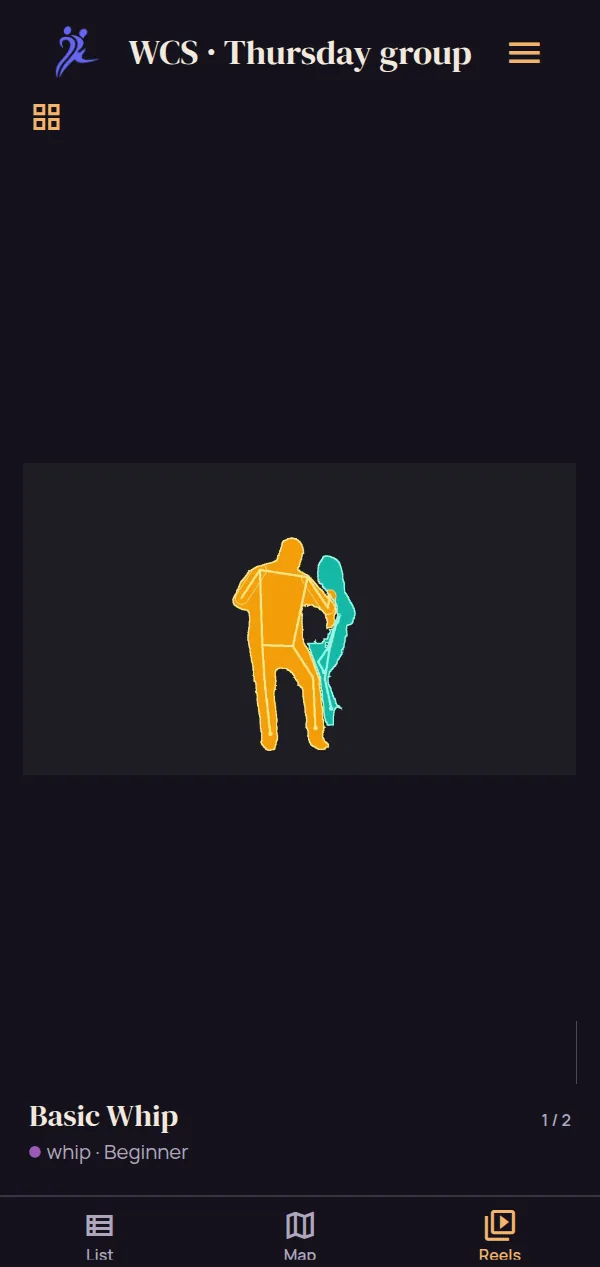
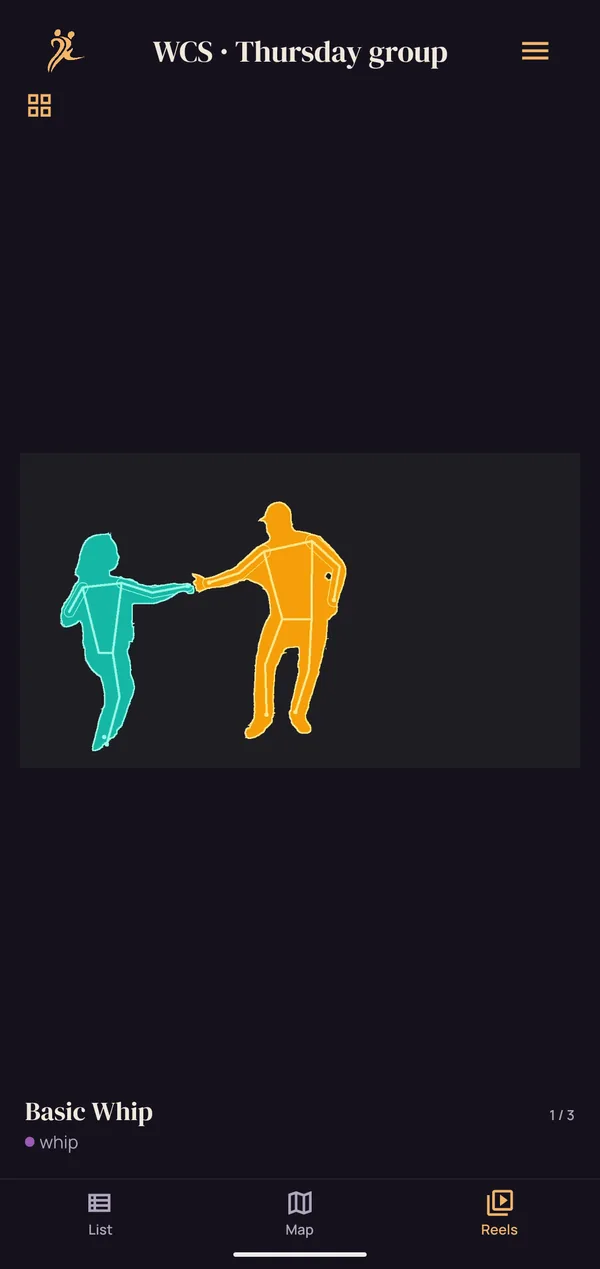
Website: retake the Reels and video-tool shots on the device
The video-tool screenshots still showed the old indigo look and came in a
single light take; the Reels shots came from the web build with one clip.
All of them are now device screenshots from the dev build, in After Hours
and Clipboard, light and dark, using a class video transcribed in full and
anonymized from 2:18 to 2:38 (kept alongside the original).

- video-trim, video-tap, video-jobs, video-review: four takes each, shown
  with the same for-ah / for-cb pictures as the other shots
- video-transcript: new, the transcript sheet, as a fourth step
- reels, reels-overview: a list with several videos per pattern
- The original footage is under a strong Gaussian blur in every frame
  (its dancers haven't consented); the tap markers are restored on top,
  and the silhouettes are left as they are
- README: how the device shots are taken; the video-shot gap is closed

diff --git a/website/index.html b/website/index.html
@@ -386,21 +386,21 @@
               <div>
                 <picture class="for-ah">
                 <source srcset="img/shots/reels-ah-dark.webp" media="(prefers-color-scheme: dark)" />
-                <img src="img/shots/reels-ah.webp" width="600" height="1267" loading="lazy" alt="A reel of the basic whip, the first of its two videos: an anonymized clip in which the two dancers are coloured silhouettes" />
+                <img src="img/shots/reels-ah.webp" width="600" height="1269" loading="lazy" alt="A reel of the basic whip, the first of its three videos: an anonymized clip in which the two dancers are coloured silhouettes" />
               </picture>
               <picture class="for-cb">
                 <source srcset="img/shots/reels-cb-dark.webp" media="(prefers-color-scheme: dark)" />
-                <img src="img/shots/reels-cb.webp" width="600" height="1267" loading="lazy" alt="A reel of the basic whip, the first of its two videos: an anonymized clip in which the two dancers are coloured silhouettes" />
+                <img src="img/shots/reels-cb.webp" width="600" height="1269" loading="lazy" alt="A reel of the basic whip, the first of its three videos: an anonymized clip in which the two dancers are coloured silhouettes" />
               </picture>
               </div>
               <figure class="shot-crop">
                 <picture class="for-ah">
                 <source srcset="img/shots/reels-overview-ah-dark.webp" media="(prefers-color-scheme: dark)" />
-                <img src="img/shots/reels-overview-ah.webp" width="600" height="620" loading="lazy" alt="The Reels overview for this list: a still of the basic whip, marked as having two videos" />
+                <img src="img/shots/reels-overview-ah.webp" width="600" height="981" loading="lazy" alt="The Reels overview for this list: stills of the basic whip, marked as having three videos, and of the left side pass" />
               </picture>
               <picture class="for-cb">
                 <source srcset="img/shots/reels-overview-cb-dark.webp" media="(prefers-color-scheme: dark)" />
-                <img src="img/shots/reels-overview-cb.webp" width="600" height="620" loading="lazy" alt="The Reels overview for this list: a still of the basic whip, marked as having two videos" />
+                <img src="img/shots/reels-overview-cb.webp" width="600" height="978" loading="lazy" alt="The Reels overview for this list: stills of the basic whip, marked as having three videos, and of the left side pass" />
               </picture>
                 <figcaption>The overview: this list or all lists, a still for each pattern.</figcaption>
               </figure>
@@ -443,27 +443,60 @@
               </p>
             </div>
             <div class="feature-art shot">
-              <img
-                src="img/shots/video-review.webp"
-                width="600"
-                height="1263"
-                loading="lazy"
-                alt="Checking an anonymized clip of a basic whip: the two dancers are coloured silhouettes, and the sheet offers to replace the original, keep both, or discard the new video"
-              />
+              <picture class="for-ah">
+                <source srcset="img/shots/video-review-ah-dark.webp" media="(prefers-color-scheme: dark)" />
+                <img src="img/shots/video-review-ah.webp" width="600" height="1269" loading="lazy" alt="Checking an anonymized clip of a basic whip: the two dancers are coloured silhouettes, and the sheet offers to replace the original, keep both, or discard the new video" />
+              </picture>
+              <picture class="for-cb">
+                <source srcset="img/shots/video-review-cb-dark.webp" media="(prefers-color-scheme: dark)" />
+                <img src="img/shots/video-review-cb.webp" width="600" height="1269" loading="lazy" alt="Checking an anonymized clip of a basic whip: the two dancers are coloured silhouettes, and the sheet offers to replace the original, keep both, or discard the new video" />
+              </picture>
             </div>
           </div>
           <div class="video-steps">
             <figure class="shot-crop">
-              <img src="img/shots/video-trim.webp" width="600" height="840" loading="lazy" alt="The Edit video sheet: a 19-second part of a long class video is selected, with Shorten and Anonymize below and an option to transcribe the full video first" />
+              <picture class="for-ah">
+                <source srcset="img/shots/video-trim-ah-dark.webp" media="(prefers-color-scheme: dark)" />
+                <img src="img/shots/video-trim-ah.webp" width="600" height="859" loading="lazy" alt="The Edit video sheet: the 20 seconds from 2:18 to 2:38 of a long class video are selected, with Shorten and Anonymize below and the option to transcribe the full video first" />
+              </picture>
+              <picture class="for-cb">
+                <source srcset="img/shots/video-trim-cb-dark.webp" media="(prefers-color-scheme: dark)" />
+                <img src="img/shots/video-trim-cb.webp" width="600" height="854" loading="lazy" alt="The Edit video sheet: the 20 seconds from 2:18 to 2:38 of a long class video are selected, with Shorten and Anonymize below and the option to transcribe the full video first" />
+              </picture>
               <figcaption>Pick the part that shows the figure, up to 30 seconds.</figcaption>
             </figure>
             <figure class="shot-crop">
-              <img src="img/shots/video-tap.webp" width="600" height="789" loading="lazy" alt="Anonymizing a clip: the two dancers are marked 1 and 2 on a frame of the video" />
+              <picture class="for-ah">
+                <source srcset="img/shots/video-tap-ah-dark.webp" media="(prefers-color-scheme: dark)" />
+                <img src="img/shots/video-tap-ah.webp" width="600" height="797" loading="lazy" alt="Anonymizing a clip: the two dancers are marked 1 and 2 on a frame of the video" />
+              </picture>
+              <picture class="for-cb">
+                <source srcset="img/shots/video-tap-cb-dark.webp" media="(prefers-color-scheme: dark)" />
+                <img src="img/shots/video-tap-cb.webp" width="600" height="792" loading="lazy" alt="Anonymizing a clip: the two dancers are marked 1 and 2 on a frame of the video" />
+              </picture>
               <figcaption>Tap the dancers, and the phone does the rest.</figcaption>
             </figure>
             <figure class="shot-crop">
-              <img src="img/shots/video-jobs.webp" width="600" height="886" loading="lazy" alt="The pattern list with a banner: the basic whip is being transcribed, and its anonymizing waits its turn" />
+              <picture class="for-ah">
+                <source srcset="img/shots/video-jobs-ah-dark.webp" media="(prefers-color-scheme: dark)" />
+                <img src="img/shots/video-jobs-ah.webp" width="600" height="950" loading="lazy" alt="The pattern list with a banner: the basic whip's transcript is ready, and its anonymizing is under way" />
+              </picture>
+              <picture class="for-cb">
+                <source srcset="img/shots/video-jobs-cb-dark.webp" media="(prefers-color-scheme: dark)" />
+                <img src="img/shots/video-jobs-cb.webp" width="600" height="878" loading="lazy" alt="The pattern list with a banner: the basic whip's transcript is ready, and its anonymizing is under way" />
+              </picture>
               <figcaption>The work runs in the background, and you get a notification when it's done.</figcaption>
+            </figure>
+            <figure class="shot-crop">
+              <picture class="for-ah">
+                <source srcset="img/shots/video-transcript-ah-dark.webp" media="(prefers-color-scheme: dark)" />
+                <img src="img/shots/video-transcript-ah.webp" width="600" height="816" loading="lazy" alt="The transcript of the class video, line by line with timestamps, each with a box to add it to the description, and a button to suggest a name and description" />
+              </picture>
+              <picture class="for-cb">
+                <source srcset="img/shots/video-transcript-cb-dark.webp" media="(prefers-color-scheme: dark)" />
+                <img src="img/shots/video-transcript-cb.webp" width="600" height="804" loading="lazy" alt="The transcript of the class video, line by line with timestamps, each with a box to add it to the description, and a button to suggest a name and description" />
+              </picture>
+              <figcaption>Read what was said, jump to a line, or add it to your notes.</figcaption>
             </figure>
           </div>
         </div>

diff --git a/website/styles.css b/website/styles.css
@@ -787,8 +787,8 @@ section {
 /* The video tools, step by step: crops of the app's sheets, so a lighter frame than a phone. */
 .video-steps {
   display: grid;
-  grid-template-columns: repeat(3, 1fr);
-  gap: 32px;
+  grid-template-columns: repeat(4, 1fr);
+  gap: 24px;
   align-items: start;
 }
 
@@ -815,6 +815,12 @@ section {
 }
 
 @media (max-width: 860px) {
+  .video-steps {
+    grid-template-columns: repeat(2, 1fr);
+  }
+}
+
+@media (max-width: 480px) {
   .video-steps {
     grid-template-columns: 1fr;
   }

diff --git a/website/README.md b/website/README.md
@@ -12,13 +12,13 @@ system. Without JavaScript the switcher stays hidden and the page is After Hours
 
 | File | What it is |
 |---|---|
-| `index.html` | The landing page. The list, map, filter, modifier, Reels and video-tool examples are real app screenshots (`img/shots/`); the sharing illustration is inline SVG drawn with the site's colour variables. The web-build shots and the SVG follow the style and light or dark |
+| `index.html` | The landing page. The list, map, filter, modifier, Reels and video-tool examples are real app screenshots (`img/shots/`); the sharing illustration is inline SVG drawn with the site's colour variables. The screenshots and the SVG follow the style and light or dark |
 | `styles.css` | All styling. Both styles' colours, fonts and radii mirror `src/common/theme/tokens.ts` (`palettes`, `nativeFonts`, `radii`); the pattern-type colours are from `PatternType.ts`. A token changed in the app should change here too |
 | `site.js` | The style switcher, loaded in every page's `<head>` so a returning visitor's style is set before the first paint |
 | `fonts/` | DM Serif Display, Manrope, IBM Plex Sans Condensed and IBM Plex Mono as WOFF2, subset to Latin from `assets/fonts/`, with their OFL licences |
 | `privacy.html` | **Generated** from `/PRIVACY_POLICY.md` by `build-privacy.py`. Edit the Markdown, not the HTML |
 | `404.html` | Not-found page, with absolute paths (see "Moving the site" below) |
-| `img/shots/` | App screenshots, 600 px wide. Each web-build shot comes four times: `name-ah.webp`, `name-ah-dark.webp` (After Hours) and `name-cb.webp`, `name-cb-dark.webp` (Clipboard); the page shows the copy for the current style (`.for-ah`, `.for-cb`). The video tools (`video-*.webp`) are a single light take |
+| `img/shots/` | App screenshots, 600 px wide. Each shot comes four times: `name-ah.webp`, `name-ah-dark.webp` (After Hours) and `name-cb.webp`, `name-cb-dark.webp` (Clipboard); the page shows the copy for the current style (`.for-ah`, `.for-cb`) |
 | `img/` | Logo, favicons and the social preview image, derived from `assets/images/app-icon.png` and `store-assets/play-store-feature-graphic.png` |
 | `.nojekyll`, `robots.txt` | Hosting housekeeping |
 
@@ -49,19 +49,19 @@ These addresses are hard-coded and must change together when the site gets its o
 
 - **Store badges.** When the listings go live, replace the "In active development" line in the
   hero with the official Google Play and App Store badges.
-- **Screenshots.** The screenshots come from the app's web build at phone size (412 × 870, saved
-  600 px wide), with a West Coast Swing group list ("WCS · Thursday group", tagged by course and
-  festival, with a rhythm on each figure and a manual network layout) seeded into storage, once
-  per style and theme. The web build has no embedded fonts, so the shots load the app's font
-  files and point `webFonts` at them; graph labels are set in a Roboto-like sans, as on Android.
-  The Reels shots use two frames of the basic whip from the class video, the anonymized one and
-  the blurred original, since there is no other footage with the dancers' consent; a device
-  screenshot of a list with more videos would show the overview better.
-- **Video-tool screenshots.** These are Android-only, so `video-*.webp` were taken on a phone with
-  the dev build (status bar cropped off; the original class video blurred, since its dancers
-  haven't consented). They still show the app's previous indigo look and need retaking on the
-  phone in both styles. Sharing can't be shot on the web build (no Firebase) and is still drawn;
-  replace it with a device screenshot when a phone is at hand.
+- **Screenshots.** The list, map, filter and modifier shots come from the app's web build at
+  phone size (412 × 870, saved 600 px wide), with a West Coast Swing group list ("WCS · Thursday
+  group", tagged by course and festival, with a rhythm on each figure and a manual network layout)
+  seeded into storage, once per style and theme. The web build has no embedded fonts, so the shots
+  load the app's font files and point `webFonts` at them; graph labels are set in a Roboto-like
+  sans, as on Android.
+- **Device screenshots.** The Reels (`reels*`) and video-tool (`video-*`) shots were taken on a
+  Pixel with the dev build, in each style and theme: `adb exec-out screencap -p`, status bar
+  cropped off, scaled to 600 px wide, WebP at quality 82. The class video in them is a recording
+  whose dancers haven't consented, so every frame of the original footage is under a strong
+  Gaussian blur (the tap markers are pasted back on top); the anonymized silhouettes are not
+  blurred. Sharing can't be shot on the web build (no Firebase) and is still drawn; replace it
+  with a device screenshot when a phone is at hand.
 - **Privacy policy.** Keep `PRIVACY_POLICY.md` in step with the app: a new network connection,
   permission or kind of stored data belongs in it before it ships.
 - **Impressum.** A site run from Germany may need an Impressum (§ 5 DDG), depending on whether it
